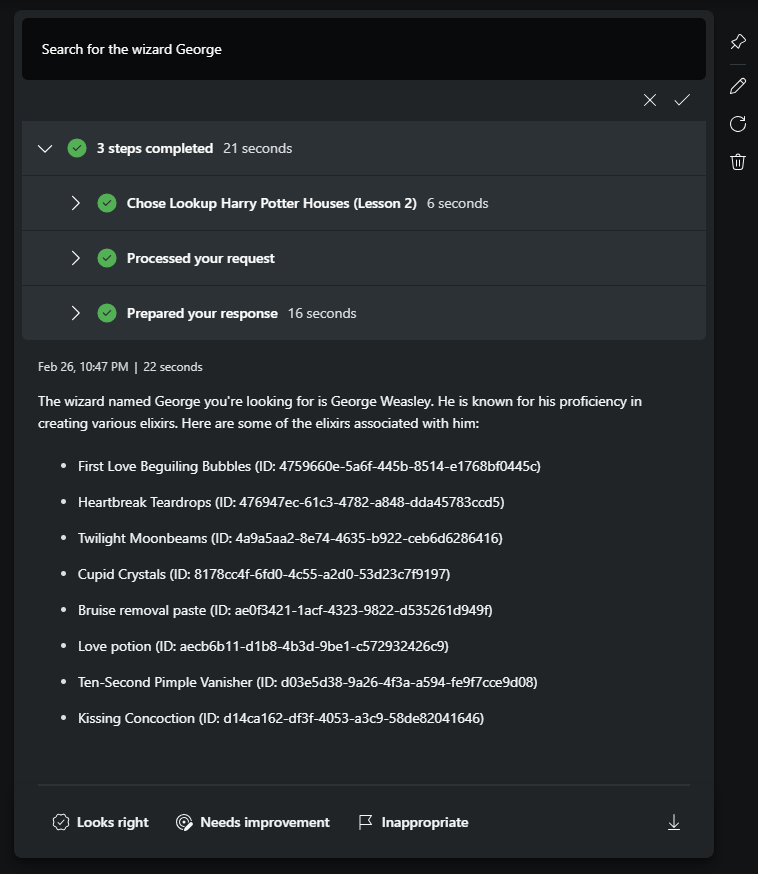
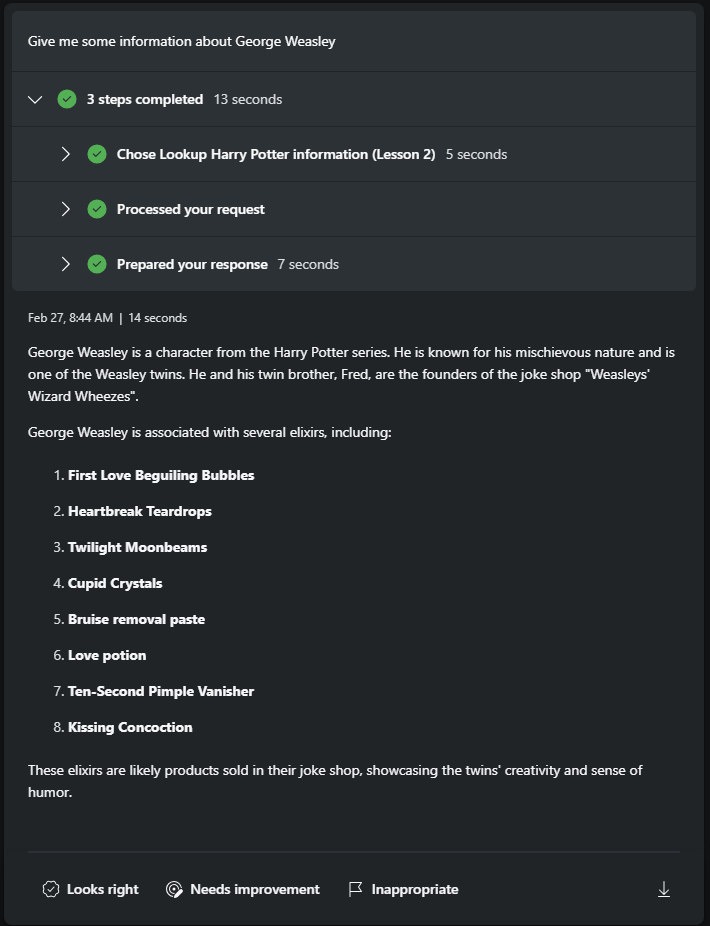
Add Harry Potter plugin and update README.md

diff --git a/Lesson 2/README.md b/Lesson 2/README.md
@@ -221,6 +221,26 @@ The `responses` field describes the possible responses from the operation. Here,
 
 After we have added the plugin as described in [lesson 1](/Lesson%201/README.md) it is time to test it.
 
+### Harry Potter Houses
+
 1. Open a new Session in Microsoft CoPilot for Security
-2. 
+2. Let's ask a question about the houses in Harry Potter: **_What houses are there in Harry Potter_**
+>- NOTE: this prompt does **not** use the parameter object.
+
+![alt text](/images/houses.png)
+
+### Harry Potter Wizards
+
+1. Open a new Session in Microsoft CoPilot for Security
+2. Let's ask a question about a wizard: **_Give me some information about George Weasley_**
+>- NOTE: this prompt does **include** a parameter value which is **George**
+
 ![alt text](/images/wizards.png)
+
+## Summary
+In Lesson 2, we explored creating plugins for Microsoft CoPilot for Security using OpenAPI Specification (OAS).  
+We learned how to document APIs with OAS, focusing on key attributes like Info, Servers, Paths, and Parameters.  
+We also practiced creating a working example for querying Harry Potter information and tested it in CoPilot.
+<br>
+I didn't include details about how the response should be structured because right now it doesn't seem to make a difference in what we get back when we query an external API.  
+The other important observation is that I was not able to succesfully query and API if no OpenAPI Spec if published in the remote API.
